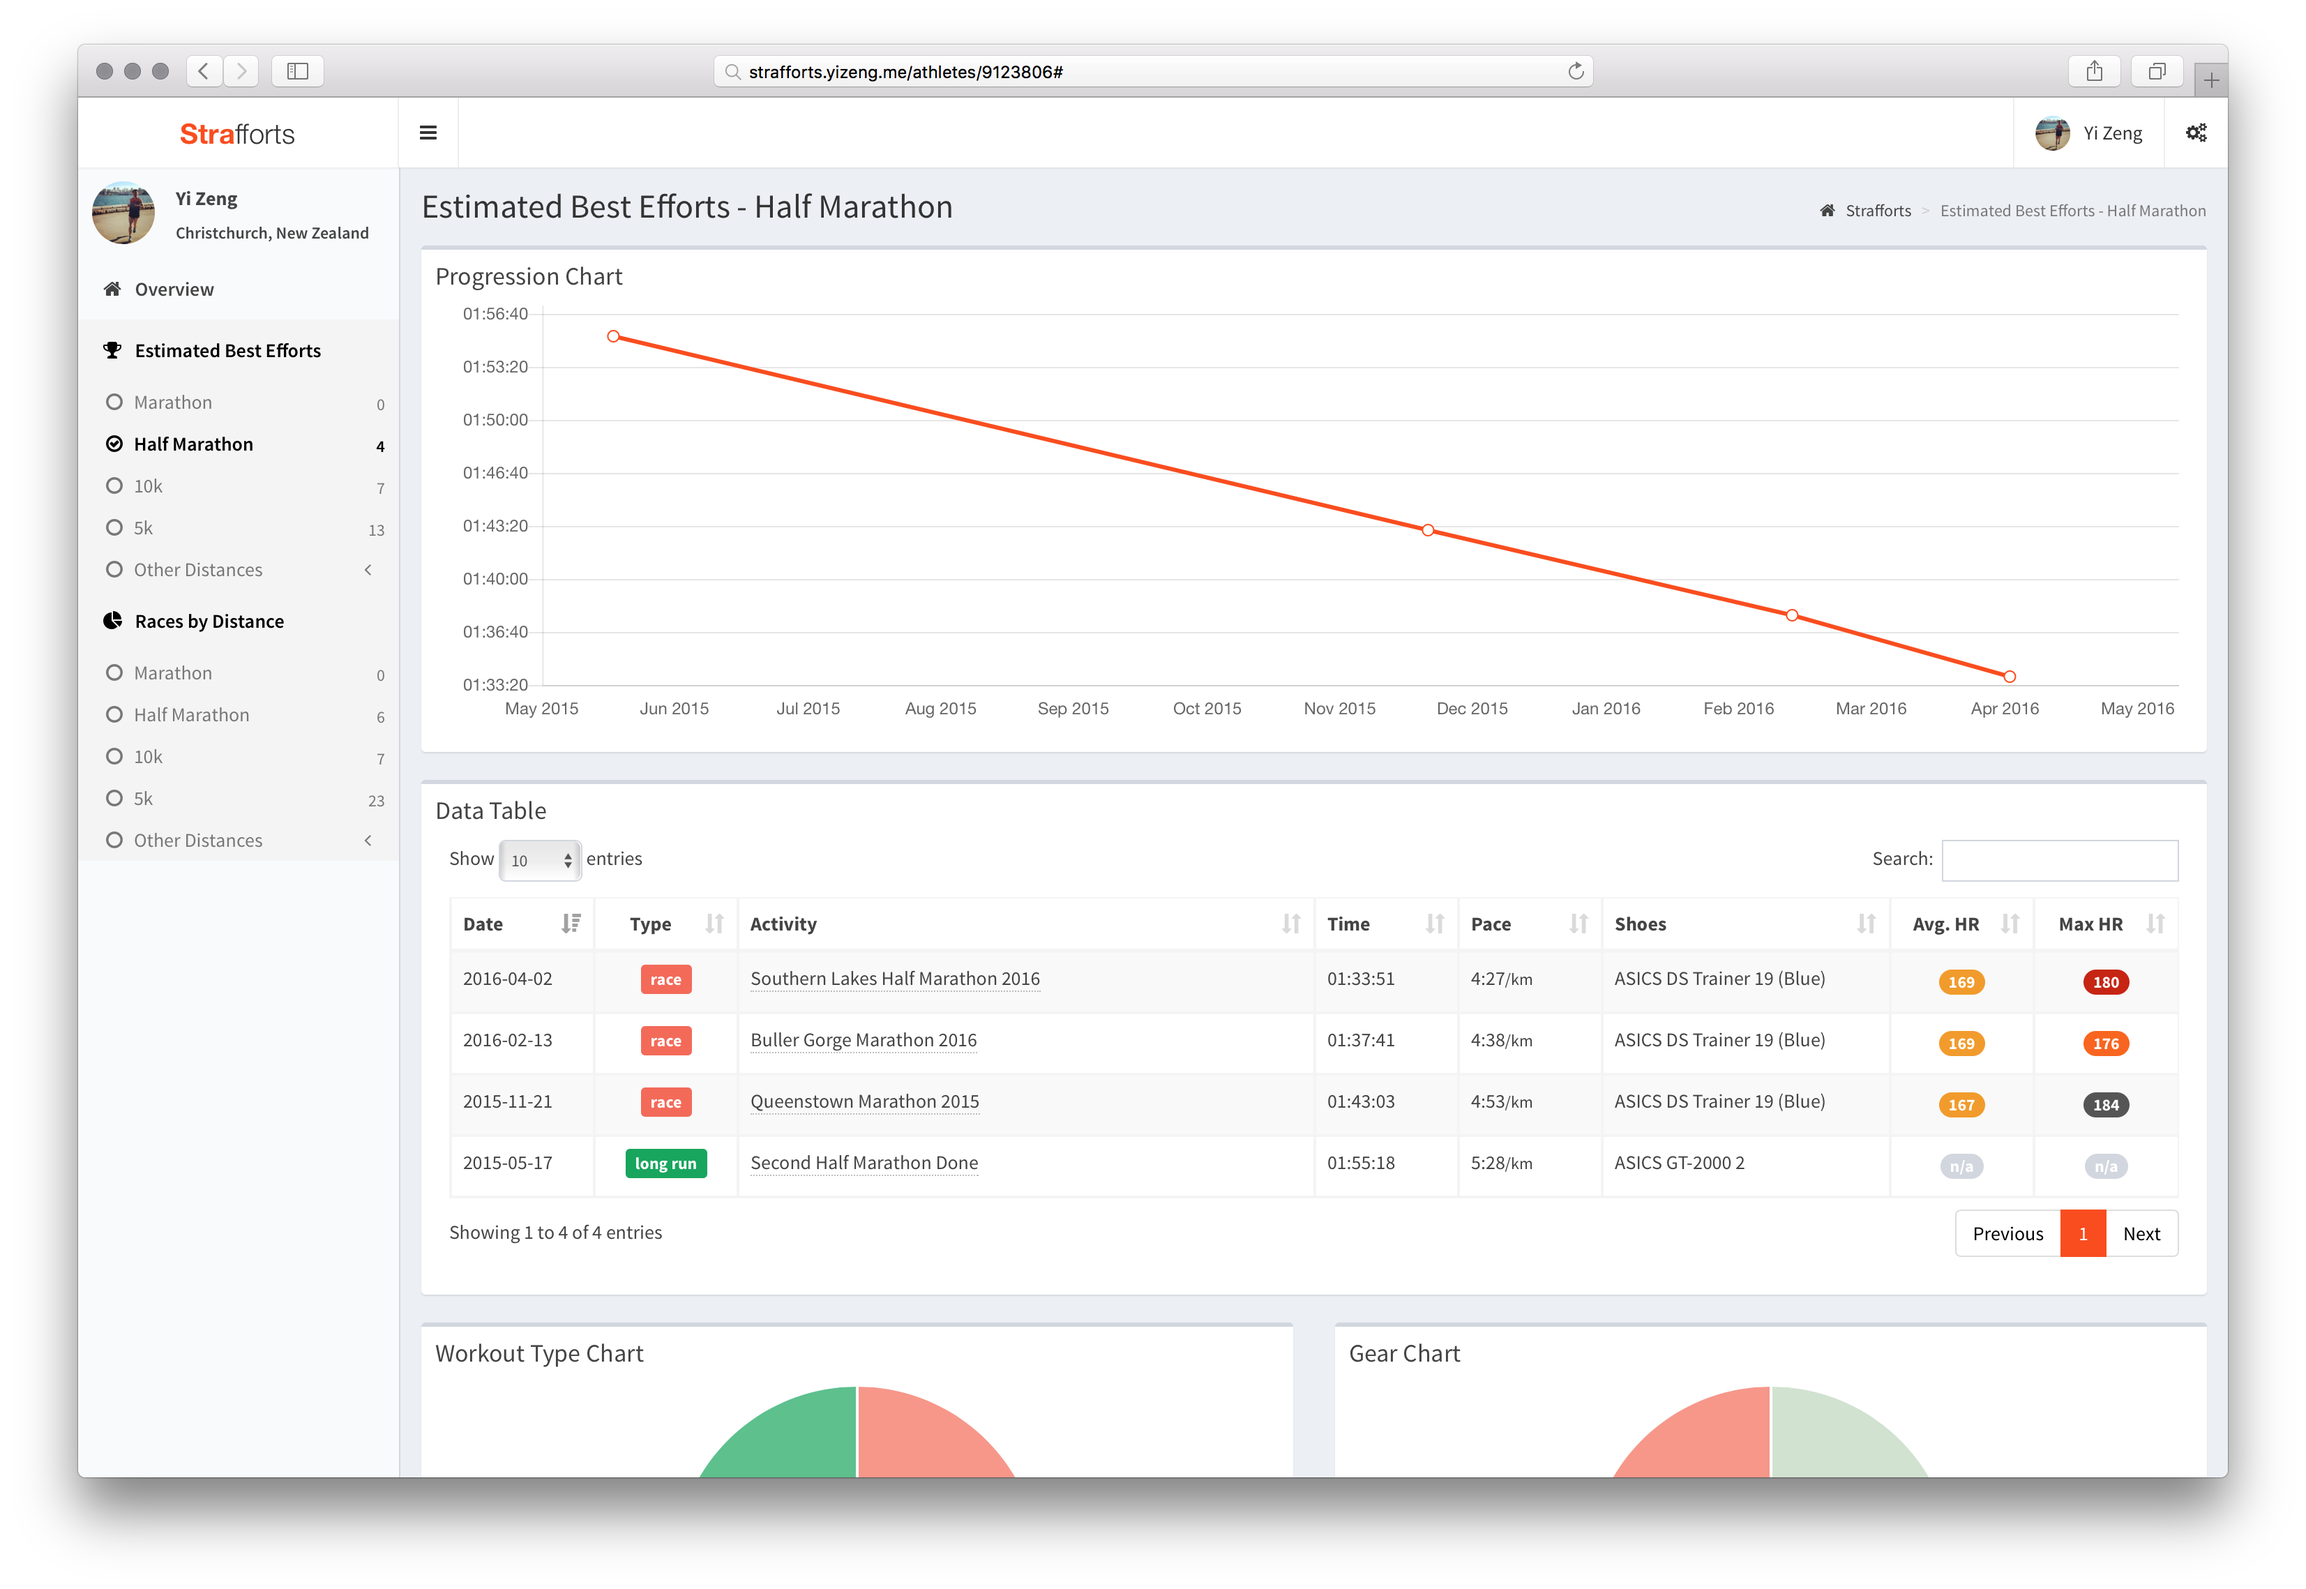
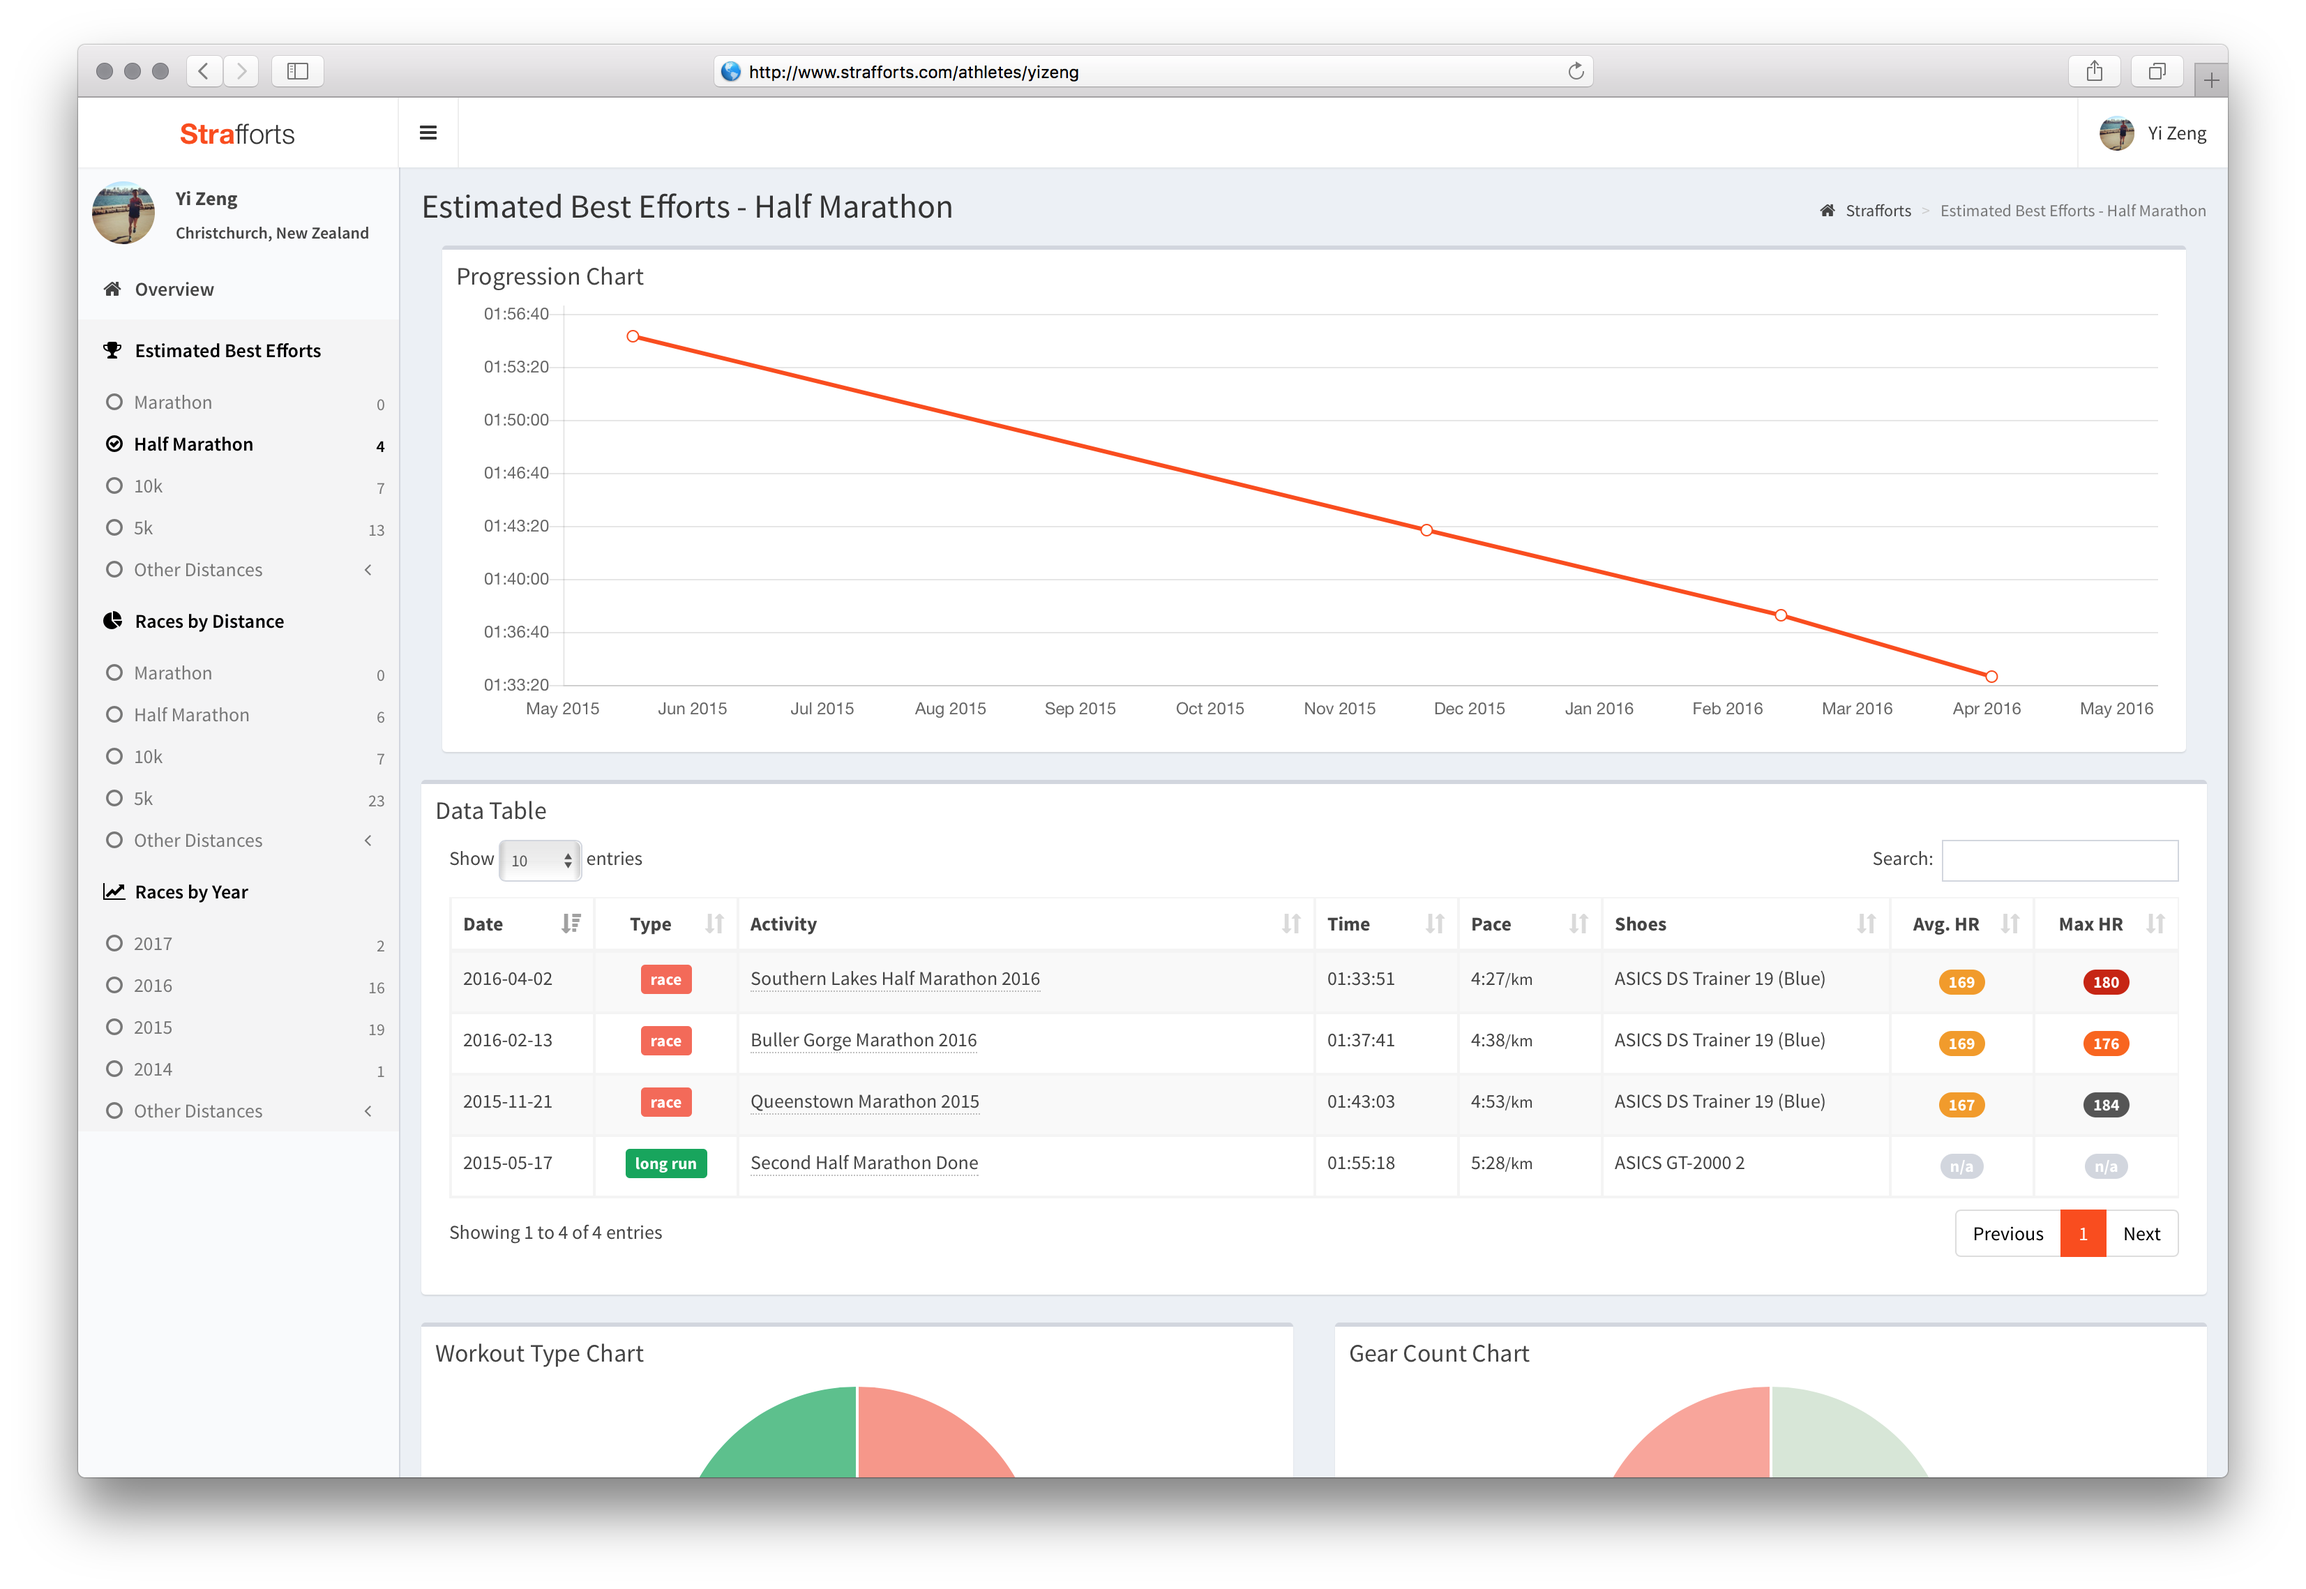
Update README.md with new screenshots

diff --git a/README.md b/README.md
@@ -25,9 +25,8 @@ so that athletes can connect Strafforts with their Strava accounts and see visua
 http://www.strafforts.com
 
 ![Strafforts Homepage Screenshot](public/screenshots/strafforts-home.jpg)
-![Strafforts Overview Page Screenshot](public/screenshots/strafforts-overview.png)
 ![Strafforts Best Efforts View Screenshot](public/screenshots/strafforts-best-efforts-view.png)
-![Strafforts Races View Screenshot](public/screenshots/strafforts-races-view.png)
+![Strafforts Races View Screenshot](public/screenshots/strafforts-races-by-year-view.png)
 
 
 ### What are 'Estimated Best Efforts'?
